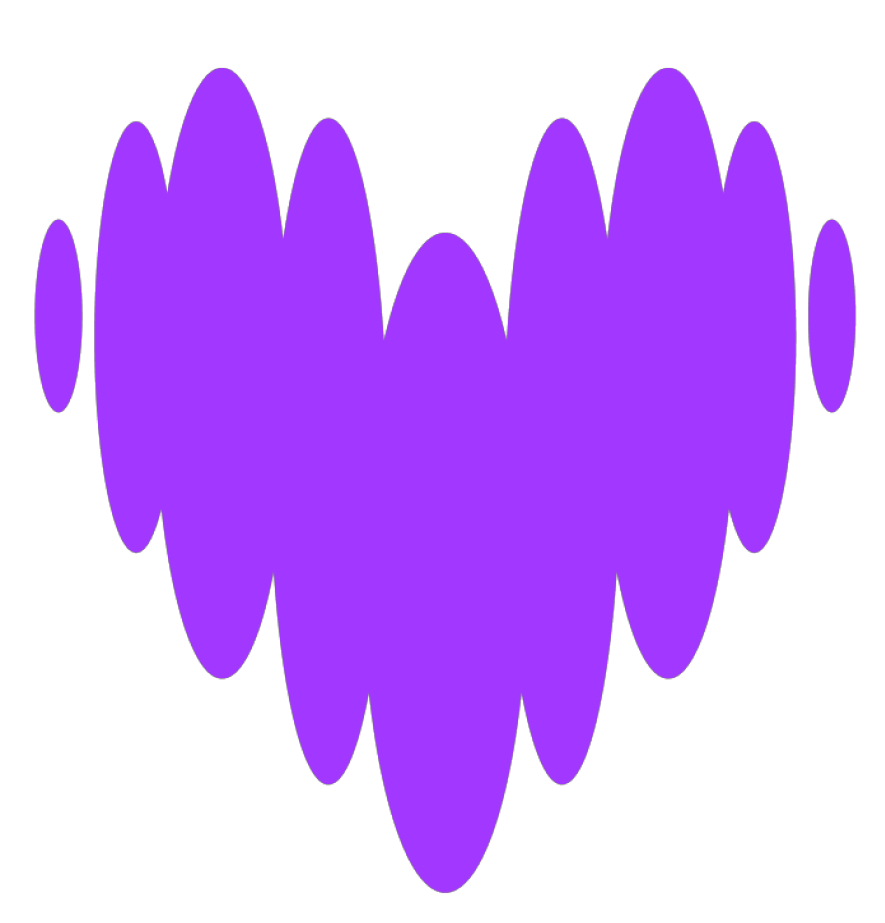
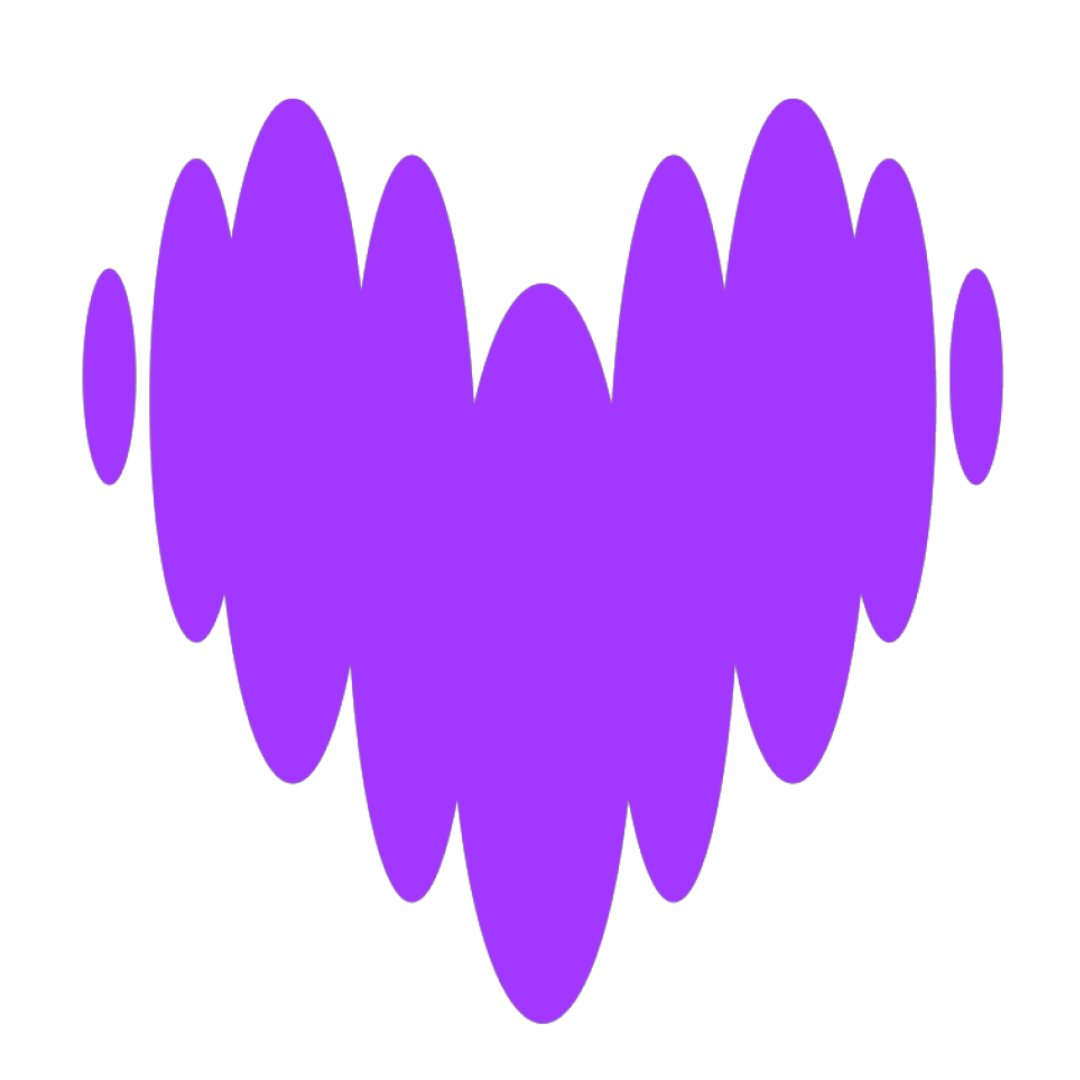
padronizando a index

diff --git a/public/assets/css/main.css b/public/assets/css/main.css
@@ -335,6 +335,34 @@ section {
 }
 
 /*--------------------------------------------------------------
+# Página Inicial
+--------------------------------------------------------------*/
+.social-panel {
+  background-color: #f8f9fa;
+  text-align: center;
+}
+
+.social-panel h3{
+  font-size: 15pt;
+  font-weight: bold;
+  background-color: #534881;
+  color: white;
+  padding: 5px;
+}
+
+.social-icons{
+  display: flex;
+  flex-direction: row;
+  justify-content: center;
+  gap: 100px;
+}
+
+.social-icons img {
+  width: 80px; /* Ajuste a largura dos ícones conforme necessário */
+  margin: 0 10px;
+}
+
+/*--------------------------------------------------------------
 # Desktop Navigation
 --------------------------------------------------------------*/
 @media (min-width: 1280px) {
@@ -2007,6 +2035,10 @@ section {
 .hero .icon-box:hover .title a,
 .hero .icon-box:hover .icon {
   color: #fff;
+}
+
+.video-index img{
+  width: 450px;
 }
 
 /*--------------------------------------------------------------

diff --git a/resources/views/index.blade.php b/resources/views/index.blade.php
@@ -3,14 +3,14 @@
 @section('main')
   <!-- ======= Hero Section ======= -->
   <section id="hero" class="hero">
-    <div class="container position-relative">
+    <div class="container position relative d-flex justify-content-around">
       <div class="row gy-5" data-aos="fade-in">
         <div class="col-lg-6 order-2 order-lg-1 flex-column justify-content-center text-center text-lg-start">
-          <h2>Rádio Desopilar</h2>
+          <h2>Rádio Desopila</h2>
           <p>A plataforma da Rádio Desopila é fonte de comunicação e entretenimento dentro da escola e por isso se tornou um ponto de convergência para a diversidade de vozes e interesses, através de programas culturais, revista, pedidos de música, etc., a rádio se esforça para oferecer conteúdo que informe, inspire e, claro, divirta.
           </p>
         </div>
-        <div class="col-lg-6 order-1 order-lg-2">
+        <div class="video-index col-lg-6 order-1 order-lg-2">
           <img src="assets/img/hero-img.svg" class="img-fluid" alt="" data-aos="zoom-out" data-aos-delay="100">
         </div>
       </div>
@@ -20,21 +20,17 @@
 
   <!-- Painel horizontal para usuários não autenticados -->
   @if (!Auth::check())
-    <section id="social-panel" class="social-panel">
-      <div class="container">
-        <div class="row">
+    <section class="container social-panel">
           <div class="col-lg-12">
-            <h3>Conecte-se conosco nas plataformas:</h3>
+            <h3 class="mb-2">Conecte-se conosco nas plataformas:</h3>
             <div class="social-icons">
-              <a href="https://www.instagram.com/radio_desopila/?utm_source=ig_web_button_share_sheet&igshid=OGQ5ZDc2ODk2ZA==" target="_blank" title="Instagram"><img src="assets/img/plataformas/instagram.png" alt="Instagram"></a>
-              <a href="https://www.youtube.com/channel/UCEoxxtXdjrVTmIl-op0kT0w" target="_blank" title="YouTube"><img src="assets/img/plataformas/youtube.png" alt="YouTube"></a>
-              <a href="https://open.spotify.com/show/4i0Gru4spSte7Gdf5ppqzk?si=13f981c031ae40d6" target="_blank" title="Spotify"><img src="assets/img/plataformas/spotify.png" alt="Spotify"></a>
-              <a href="https://deezer.page.link/p9ZSg7kZFP1YLQMN7" target="_blank" title="Deezer"><img src="assets/img/plataformas/deezer.png" alt="Deezer"></a>
-              <a href="https://podcasts.apple.com/us/podcast/r%C3%A1dio-desopila-ifrn/id1509957658" target="_blank" title="Apple Podcasts"><img src="assets/img/plataformas/apple-podcasts.png" alt="Apple Podcasts"></a>
+              <a id="insta-icon" href="https://www.instagram.com/radio_desopila/?utm_source=ig_web_button_share_sheet&igshid=OGQ5ZDc2ODk2ZA==" target="_blank" title="Instagram"><img src="assets/img/plataformas/instagram.png" alt="Instagram"></a>
+              <a id="insta-icon"href="https://www.youtube.com/channel/UCEoxxtXdjrVTmIl-op0kT0w" target="_blank" title="YouTube"><img src="assets/img/plataformas/youtube.png" alt="YouTube"></a>
+              <a id="insta-icon"href="https://open.spotify.com/show/4i0Gru4spSte7Gdf5ppqzk?si=13f981c031ae40d6" target="_blank" title="Spotify"><img src="assets/img/plataformas/spotify.png" alt="Spotify"></a>
+              <a id="insta-icon"href="https://deezer.page.link/p9ZSg7kZFP1YLQMN7" target="_blank" title="Deezer"><img src="assets/img/plataformas/deezer.png" alt="Deezer"></a>
+              <a id="insta-icon"href="https://podcasts.apple.com/us/podcast/r%C3%A1dio-desopila-ifrn/id1509957658" target="_blank" title="Apple Podcasts"><img src="assets/img/plataformas/apple-podcasts.png" alt="Apple Podcasts"></a>
             </div>
           </div>
-        </div>
-      </div>
     </section>
   @endif
 @endsection
@@ -42,20 +38,6 @@
 @section('footer')
   @include('layouts.footer')
 @endsection
-
-<style>
-  .social-panel {
-    background-color: #f8f9fa;
-    padding: 20px 0;
-    text-align: center;
-  }
-
-  .social-icons img {
-    width: 50px; /* Ajuste a largura dos ícones conforme necessário */
-    margin: 0 10px;
-  }
-
-</style>
 
 <div id="preloader"></div>
 
